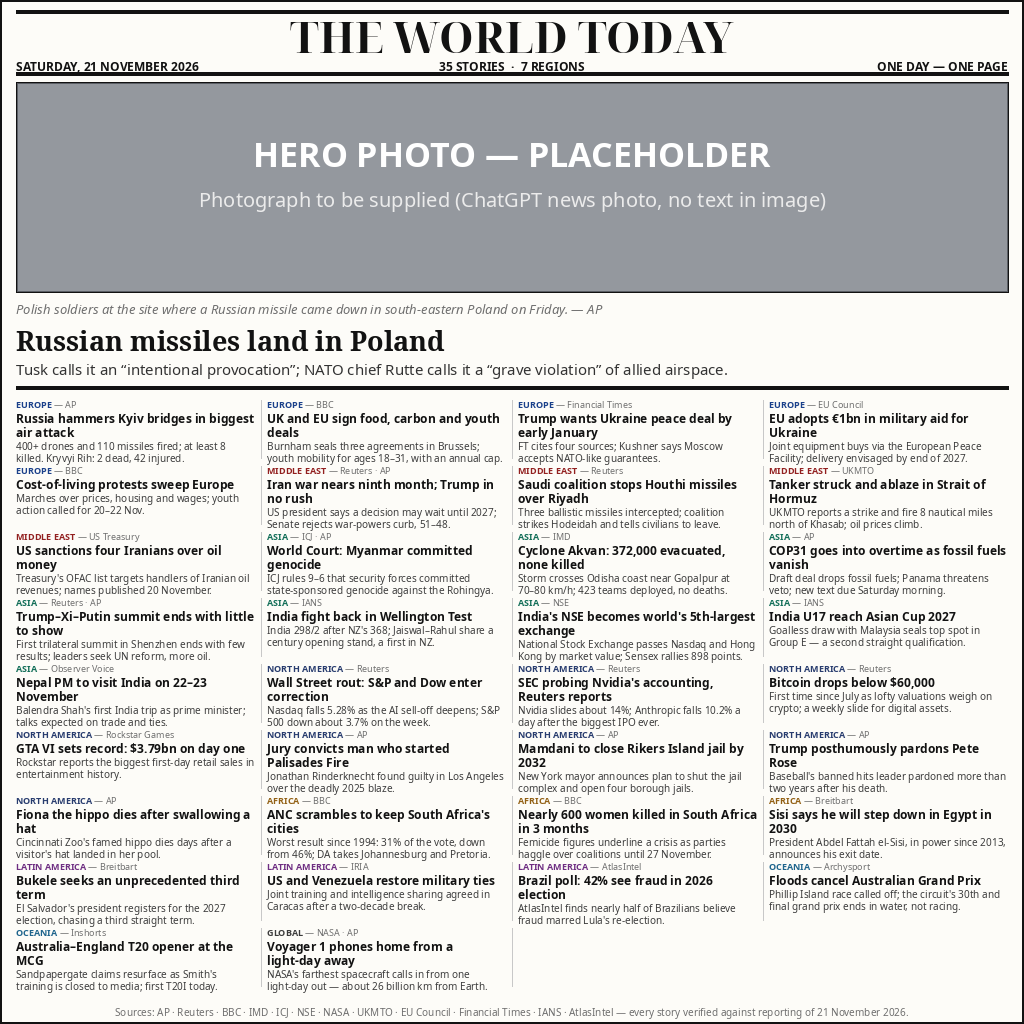
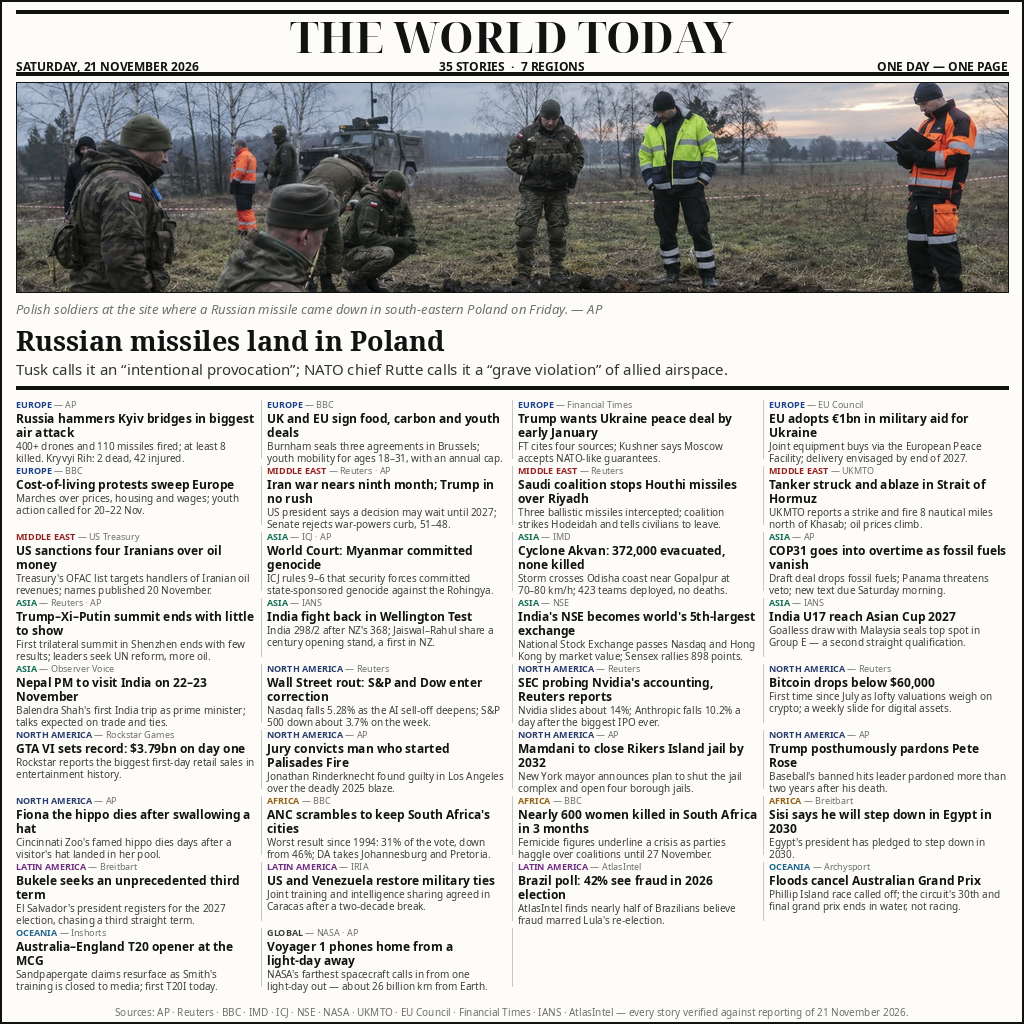
Fix Sisi deck tense + top-biased hero crop
- Sisi deck now past-tense: announcement was 17 Oct 2026, not today
- Hero crop anchored top-biased (~13% of height) so soldiers' faces
  stay in frame with the crater lip below; was centre-cropped and
  cut heads off at the top edge

Changed region(s): [[0.0, 0.0625, 1.0, 0.3125], [0.75, 0.8125, 0.9688, 0.8438]]

diff --git a/render_frontpage.py b/render_frontpage.py
@@ -80,7 +80,11 @@ def draw_hero(draw, img, y, height):
         nw, nh = int(photo.width * scale + 0.5), int(photo.height * scale + 0.5)
         photo = photo.resize((nw, nh), Image.LANCZOS)
         left = (nw - tw) // 2
-        top = (nh - th) // 2
+        # Top-biased crop: the soldiers' heads sit in the upper part of the
+        # frame, so anchor the band near the top (~13% of image height)
+        # instead of centring it, which cut the heads off.
+        top = int(nh * 0.13)
+        top = max(0, min(top, nh - th))
         img.paste(photo.crop((left, top, left + tw, top + th)), (x0, y))
     else:
         draw.rectangle([x0, y, x1, y + height], fill=(148, 152, 158))
